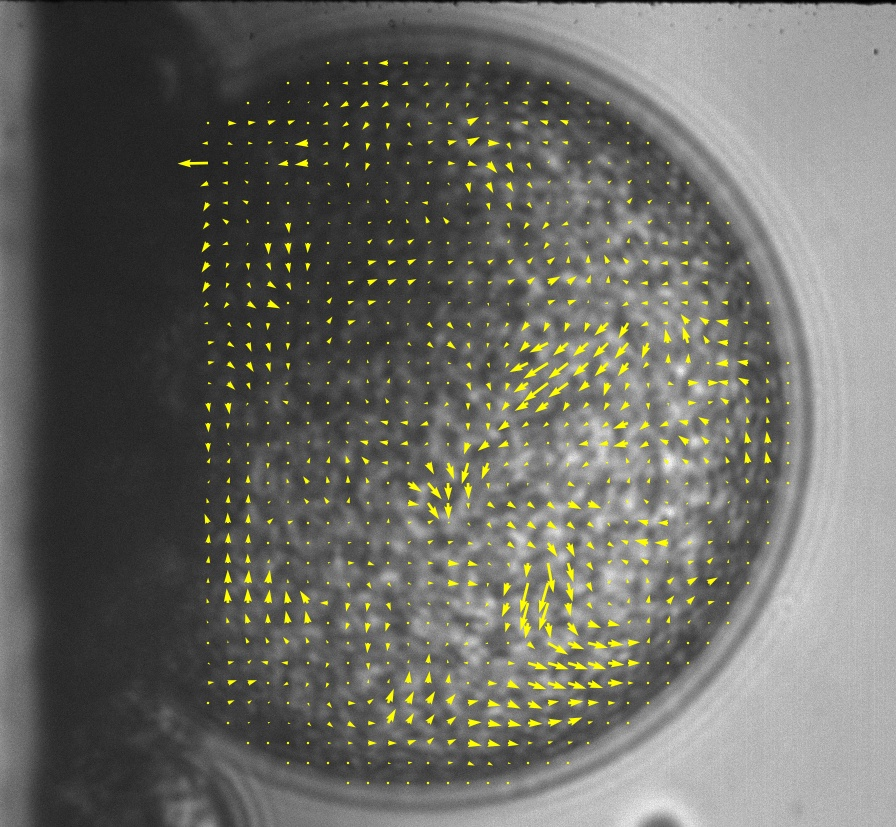
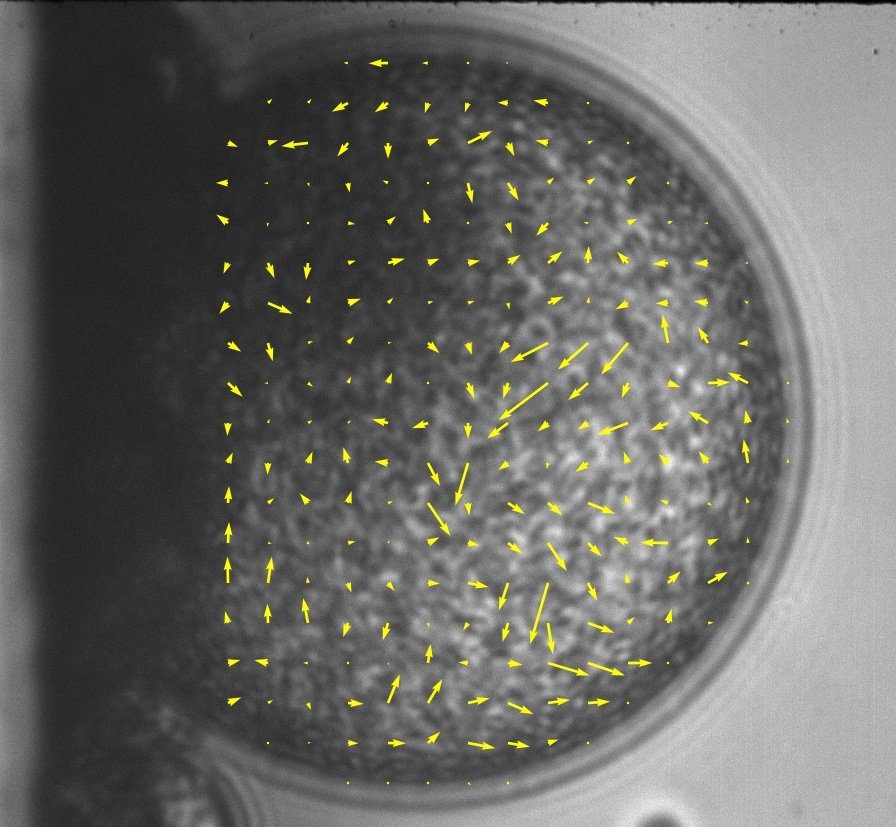
sparcity considered in scale setting

diff --git a/piv_overlay.py b/piv_overlay.py
@@ -42,11 +42,11 @@ EDIT
 ====
 Jan 03, 2022 -- i) move from PIV to script, ii) set scale, iii) update docstring
                 iv) minor structural changes
-                See Analysis of Collective Motions in Droplets Sec IV.A.2 for the reasoning of scale settings. 
+                See PIV technical report Sec II.A.1 for the reasoning of scale settings.
 """
 
-def determine_arrow_scale(u, v):
-    pass # implement in the future
+def determine_arrow_scale(u, v, sparcity):
+    return max(np.nanmax(u), np.nanmax(v)) * col / sparcity
 
 if __name__=="__main__": # whether the following script will be executed when run this code
     pivDataFolder = sys.argv[1]
@@ -71,7 +71,7 @@ if __name__=="__main__": # whether the following script will be executed when ru
     # compute scale factor of quiver
     x, y, u, v = read_piv(l.Dir[0])
     row, col = x.shape
-    scale = max(np.nanmax(u), np.nanmax(v)) * col
+    scale = determine_arrow_scale(u, v, sparcity)
 
     for num, i in l.iterrows():
         # PIV data
